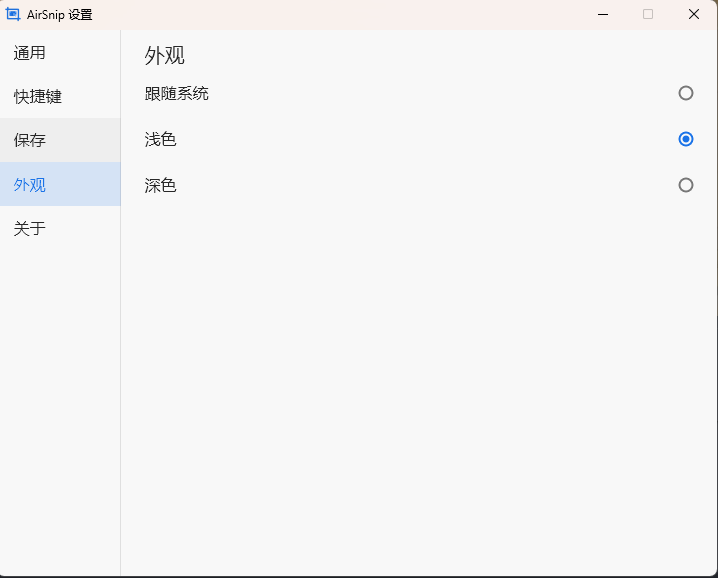
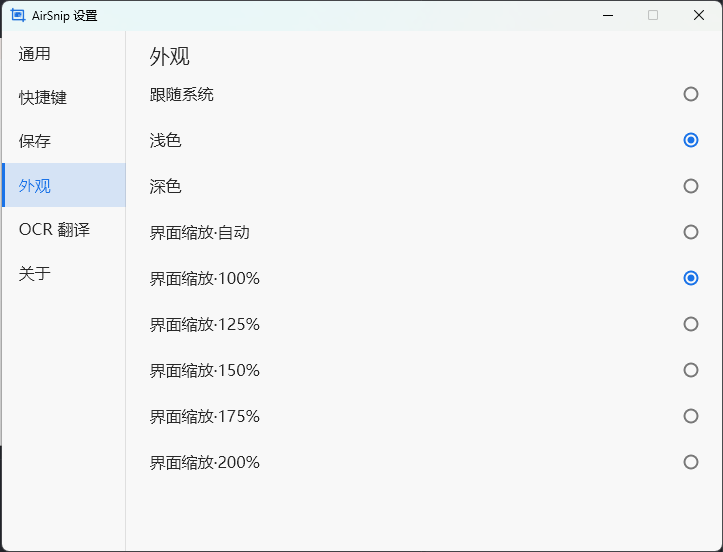
✨ 跟进新版界面截图：替换 6 张截图、补 OCR 翻译页并同步尺寸
作者重新出了全部设置页截图，尺寸与内容都变了，按新图对齐：

- 6 张图 width/height 全部更新（hero 1335×728 → 1297×742，设置页统一压到约 552 高），
  md 里内联 <img> 的硬编码尺寸一并同步
- 新增 docs/public/images/ocr.webp（原文件名 OCR.webp，按约定改为英文小写），
  加入 screenshots 数据与首页「产品界面」标签页，并在 features.md 的 OCR 章节配图
- 按新图修正 caption / alt：左侧导航多出「OCR 翻译」；通用页多「连按两次退出」；
  外观页多界面缩放 6 档；关于页多版本更新与启动时自动检查；快捷键页多
  再次截图 Shift+F1、OCR C、十项工具与「恢复默认」按钮
- ProductTour 引导语「五个设置页」改为「六个设置页」
- README TODO 里截图数量与 hero 体积（约 417 KB）更正

未动：tools 数组仍 6 个工具、shortcuts 表仍无 Shift+F1 / OCR C 等键位 ——
正文数据待作者给准确事实后再同步。

diff --git a/docs/.vitepress/data/site.ts b/docs/.vitepress/data/site.ts
@@ -60,7 +60,7 @@ export interface ReleaseUpdate {
 }
 
 export interface Screenshot {
-  id: 'general' | 'shortcuts' | 'save' | 'appearance' | 'about'
+  id: 'general' | 'shortcuts' | 'save' | 'appearance' | 'ocr' | 'about'
   /** 标签页名 */
   title: string
   /** 只描述图中可见内容 */
@@ -299,21 +299,21 @@ export const screenshots: Screenshot[] = [
     id: 'general',
     title: '通用',
     caption:
-      '「通用」页：开机自启开关、语言（简体中文）、贴图位置（原位置 / 屏幕中间）三组设置。',
-    alt: 'AirSnip 设置窗口的「通用」页，左侧导航为通用、快捷键、保存、外观、关于',
+      '「通用」页：开机自启与连按两次退出两个开关，语言（简体中文），贴图位置（原位置 / 屏幕中间）二选一。',
+    alt: 'AirSnip 设置窗口的「通用」页，含开机自启、连按两次退出、语言与贴图位置，左侧导航为通用、快捷键、保存、外观、OCR 翻译、关于',
     src: '/images/general.webp',
     width: 721,
-    height: 577,
+    height: 553,
   },
   {
     id: 'shortcuts',
     title: '快捷键',
     caption:
-      '「快捷键」页：截图 F1、贴图 F3、贴图边框 Ctrl+F3、长截图 S，以及六个标注工具的按键，全部可改；底部提示无修饰键会覆盖其他程序按键。',
-    alt: 'AirSnip 设置窗口的「快捷键」页，逐项列出截图、贴图、长截图与各标注工具的按键',
+      '「快捷键」页：截图 F1、再次截图 Shift+F1、贴图 F3、贴图边框 Ctrl+F3、长截图 S、OCR C，以及十个标注工具的按键，全部可改；底部「恢复默认」一键还原，并提示无修饰键会覆盖其他程序按键。',
+    alt: 'AirSnip 设置窗口的「快捷键」页，逐项列出截图、再次截图、贴图、贴图边框、长截图、OCR 与十个标注工具的按键，底部有「恢复默认」按钮',
     src: '/images/shortcuts.webp',
-    width: 718,
-    height: 622,
+    width: 719,
+    height: 552,
   },
   {
     id: 'save',
@@ -321,34 +321,45 @@ export const screenshots: Screenshot[] = [
     caption: '「保存」页：文件名格式三选一——日期 + 时间、时间戳（毫秒）、仅日期。',
     alt: 'AirSnip 设置窗口的「保存」页，三个文件名格式单选项',
     src: '/images/save.webp',
-    width: 720,
-    height: 575,
+    width: 722,
+    height: 552,
   },
   {
     id: 'appearance',
     title: '外观',
-    caption: '「外观」页：跟随系统 / 浅色 / 深色三档，软件主题支持跟随系统切换。',
-    alt: 'AirSnip 设置窗口的「外观」页，三个主题单选项',
+    caption:
+      '「外观」页：跟随系统 / 浅色 / 深色三档，软件主题支持跟随系统切换；界面缩放另有自动 / 100% / 125% / 150% / 175% / 200% 六档。',
+    alt: 'AirSnip 设置窗口的「外观」页，三个主题单选项，以及界面缩放的自动、100%、125%、150%、175%、200% 六个档位',
     src: '/images/appearance.webp',
-    width: 718,
-    height: 578,
+    width: 723,
+    height: 552,
+  },
+  {
+    id: 'ocr',
+    title: 'OCR 翻译',
+    caption:
+      '「OCR 翻译」页：OCR 总开关、识别后自动复制、识别语言（跟随系统），说明写明本地识别、图片不出本机。',
+    alt: 'AirSnip 设置窗口的「OCR 翻译」页，含 OCR 总开关、识别后自动复制、识别语言与本地识别说明',
+    src: '/images/ocr.webp',
+    width: 720,
+    height: 551,
   },
   {
     id: 'about',
     title: '关于',
     caption:
-      '「关于」页：版本与许可、项目地址、第三方许可清单入口，以及作者的支持项目说明与赞赏二维码（原样展示）。',
-    alt: 'AirSnip 设置窗口的「关于」页，含版本号、GPL-3.0 许可、项目地址、第三方许可入口与支持项目二维码',
+      '「关于」页：版本与许可、项目地址、第三方许可清单入口、版本更新（含启动时自动检查开关，图中显示已是最新），以及作者的支持项目说明与赞赏二维码（原样展示）。',
+    alt: 'AirSnip 设置窗口的「关于」页，含版本号、GPL-3.0 许可、项目地址、第三方许可入口、版本更新与启动时自动检查开关，以及支持项目二维码',
     src: '/images/about.webp',
-    width: 721,
-    height: 578,
+    width: 723,
+    height: 552,
   },
 ]
 
 export const heroShot = {
   src: '/images/hero.webp',
-  width: 1335,
-  height: 728,
+  width: 1297,
+  height: 742,
   alt: '按 F1 后的截图覆盖层：背景整体压暗，选区框住网页内容并显示选区尺寸，屏幕底部一行标注工具栏',
   caption: '按 F1 后的样子：屏幕冻结、框选任意区域，底部一行就是全部标注工具。',
 }

diff --git a/docs/.vitepress/theme/components/ProductTour.vue b/docs/.vitepress/theme/components/ProductTour.vue
@@ -34,7 +34,7 @@ function onKeydown(event: KeyboardEvent, index: number): void {
   <section class="as-section" aria-labelledby="as-tour-title">
     <Reveal as="h2" id="as-tour-title" class="as-section__title">产品界面</Reveal>
     <Reveal as="p" class="as-section__lead" :delay="60">
-      软件设置是自绘面板，跟随系统深浅色；下面是五个设置页的实际样子。
+      软件设置是自绘面板，跟随系统深浅色；下面是六个设置页的实际样子。
     </Reveal>
 
     <div class="as-tour">

diff --git a/docs/guide/features.md b/docs/guide/features.md
@@ -26,9 +26,9 @@ import ToolShowcase from '../.vitepress/theme/components/ToolShowcase.vue'
 
 <figure class="as-shot">
   <div class="as-window">
-    <img src="/images/general.webp" alt="AirSnip 设置窗口的「通用」页，左侧导航为通用、快捷键、保存、外观、关于" width="721" height="577" loading="lazy" decoding="async" />
+    <img src="/images/general.webp" alt="AirSnip 设置窗口的「通用」页，含开机自启、连按两次退出、语言与贴图位置，左侧导航为通用、快捷键、保存、外观、OCR 翻译、关于" width="721" height="553" loading="lazy" decoding="async" />
   </div>
-  <figcaption>设置面板「通用」页：开机自启、语言、贴图位置。</figcaption>
+  <figcaption>设置面板「通用」页：开机自启、连按两次退出、语言、贴图位置。</figcaption>
 </figure>
 
 ## 二次编辑 {#edit}
@@ -45,7 +45,7 @@ import ToolShowcase from '../.vitepress/theme/components/ToolShowcase.vue'
 
 <figure class="as-shot">
   <div class="as-window">
-    <img src="/images/save.webp" alt="AirSnip 设置窗口的「保存」页，三个文件名格式单选项" width="720" height="575" loading="lazy" decoding="async" />
+    <img src="/images/save.webp" alt="AirSnip 设置窗口的「保存」页，三个文件名格式单选项" width="722" height="552" loading="lazy" decoding="async" />
   </div>
   <figcaption>设置面板「保存」页：文件名格式三选一。</figcaption>
 </figure>
@@ -66,6 +66,13 @@ import ToolShowcase from '../.vitepress/theme/components/ToolShowcase.vue'
 - 识别走 Windows 自带的 `Windows.Media.Ocr`：图片不出本机，不需要 API key，不联网、不计费
 - **默认关闭**：设置 → 「OCR 翻译」里打开总开关后才生效，关闭时工具栏不出现 OCR 按钮、`T` 键不生效；识别语言默认跟随系统首选语言，也可以在设置里指定
 
+<figure class="as-shot">
+  <div class="as-window">
+    <img src="/images/ocr.webp" alt="AirSnip 设置窗口的「OCR 翻译」页，含 OCR 总开关、识别后自动复制、识别语言与本地识别说明" width="720" height="551" loading="lazy" decoding="async" />
+  </div>
+  <figcaption>设置面板「OCR 翻译」页：OCR 总开关、识别后自动复制、识别语言。</figcaption>
+</figure>
+
 ## 贴图（Pin） {#pin}
 
 - `F3` 把选区（含标注）钉在屏幕上
@@ -84,7 +91,7 @@ import ToolShowcase from '../.vitepress/theme/components/ToolShowcase.vue'
 
 <figure class="as-shot">
   <div class="as-window">
-    <img src="/images/appearance.webp" alt="AirSnip 设置窗口的「外观」页，三个主题单选项" width="718" height="578" loading="lazy" decoding="async" />
+    <img src="/images/appearance.webp" alt="AirSnip 设置窗口的「外观」页，三个主题单选项，以及界面缩放的自动、100%、125%、150%、175%、200% 六个档位" width="723" height="552" loading="lazy" decoding="async" />
   </div>
-  <figcaption>设置面板「外观」页：跟随系统 / 浅色 / 深色。</figcaption>
+  <figcaption>设置面板「外观」页：跟随系统 / 浅色 / 深色，以及界面缩放的自动、100%、125%、150%、175%、200%。</figcaption>
 </figure>

diff --git a/README.md b/README.md
@@ -94,7 +94,7 @@ https://github.com/bd-dxg/airsnip/releases/download/<VERSION>/airsnip-<VERSION>-
 
 1. **下载包体积口径**：`v0.10.0` 的 `airsnip-v0.10.0-win-x64.zip` 实测为 842,706 字节（约 0.80 MiB / 0.84 MB 十进制），页面写的是「约 0.80 MB」，与 Release 说明一致。如需精确，改 `downloadInfo.packageSize`。
 2. **截图为 WebP**：作者提供的原图为 `.webp`（文档示例写的是 `.jpg`）。为避免引入图片处理依赖，站点直接引用 webp，未做转码；`og:image` 同样是 webp，个别社交平台预览支持有限，如需要可另出一张 png。
-3. **图片体积**：6 张截图当前均小于 400 KB（最大为 `hero.webp` 约 52 KB），暂不需要压缩。
+3. **图片体积**：7 张截图当前均小于 450 KB（最大为 `hero.webp` 约 417 KB），暂不需要压缩。
 4. **`about.webp` 中的赞助信息**：按文档要求原样展示，站点不新增任何赞助页或收款码。
 5. **已按作者指示偏离文档的 3 处**（仅记录，无需处理）：
    - 版本号取 `v0.8.1`（文档写的是 `v0.5.0`）。

diff --git a/docs/about/license.md b/docs/about/license.md
@@ -15,7 +15,7 @@ AirSnip 以 **GPL-3.0-only** 开源，源码与问题反馈都在 [GitHub 仓库
 
 <figure class="as-shot">
   <div class="as-window">
-    <img src="/images/about.webp" alt="AirSnip 设置窗口的「关于」页，含版本号、GPL-3.0 许可、项目地址、第三方许可入口与支持项目二维码" width="721" height="578" loading="lazy" decoding="async" />
+    <img src="/images/about.webp" alt="AirSnip 设置窗口的「关于」页，含版本号、GPL-3.0 许可、项目地址、第三方许可入口、版本更新与支持项目二维码" width="723" height="552" loading="lazy" decoding="async" />
   </div>
   <figcaption>软件「关于」页：版本、许可、项目地址、第三方许可入口与作者的支持项目。</figcaption>
 </figure>

diff --git a/docs/guide/getting-started.md b/docs/guide/getting-started.md
@@ -31,7 +31,7 @@ AirSnip 是绿色单文件，解压即用，不写注册表。下面是完整启
 
 <figure class="as-shot">
   <div class="as-window">
-    <img src="/images/general.webp" alt="AirSnip 设置窗口的「通用」页，左侧导航为通用、快捷键、保存、外观、关于" width="721" height="577" loading="lazy" decoding="async" />
+    <img src="/images/general.webp" alt="AirSnip 设置窗口的「通用」页，含开机自启、连按两次退出、语言与贴图位置，左侧导航为通用、快捷键、保存、外观、OCR 翻译、关于" width="721" height="553" loading="lazy" decoding="async" />
   </div>
   <figcaption>设置面板「通用」页：开机自启、语言、贴图位置。</figcaption>
 </figure>
